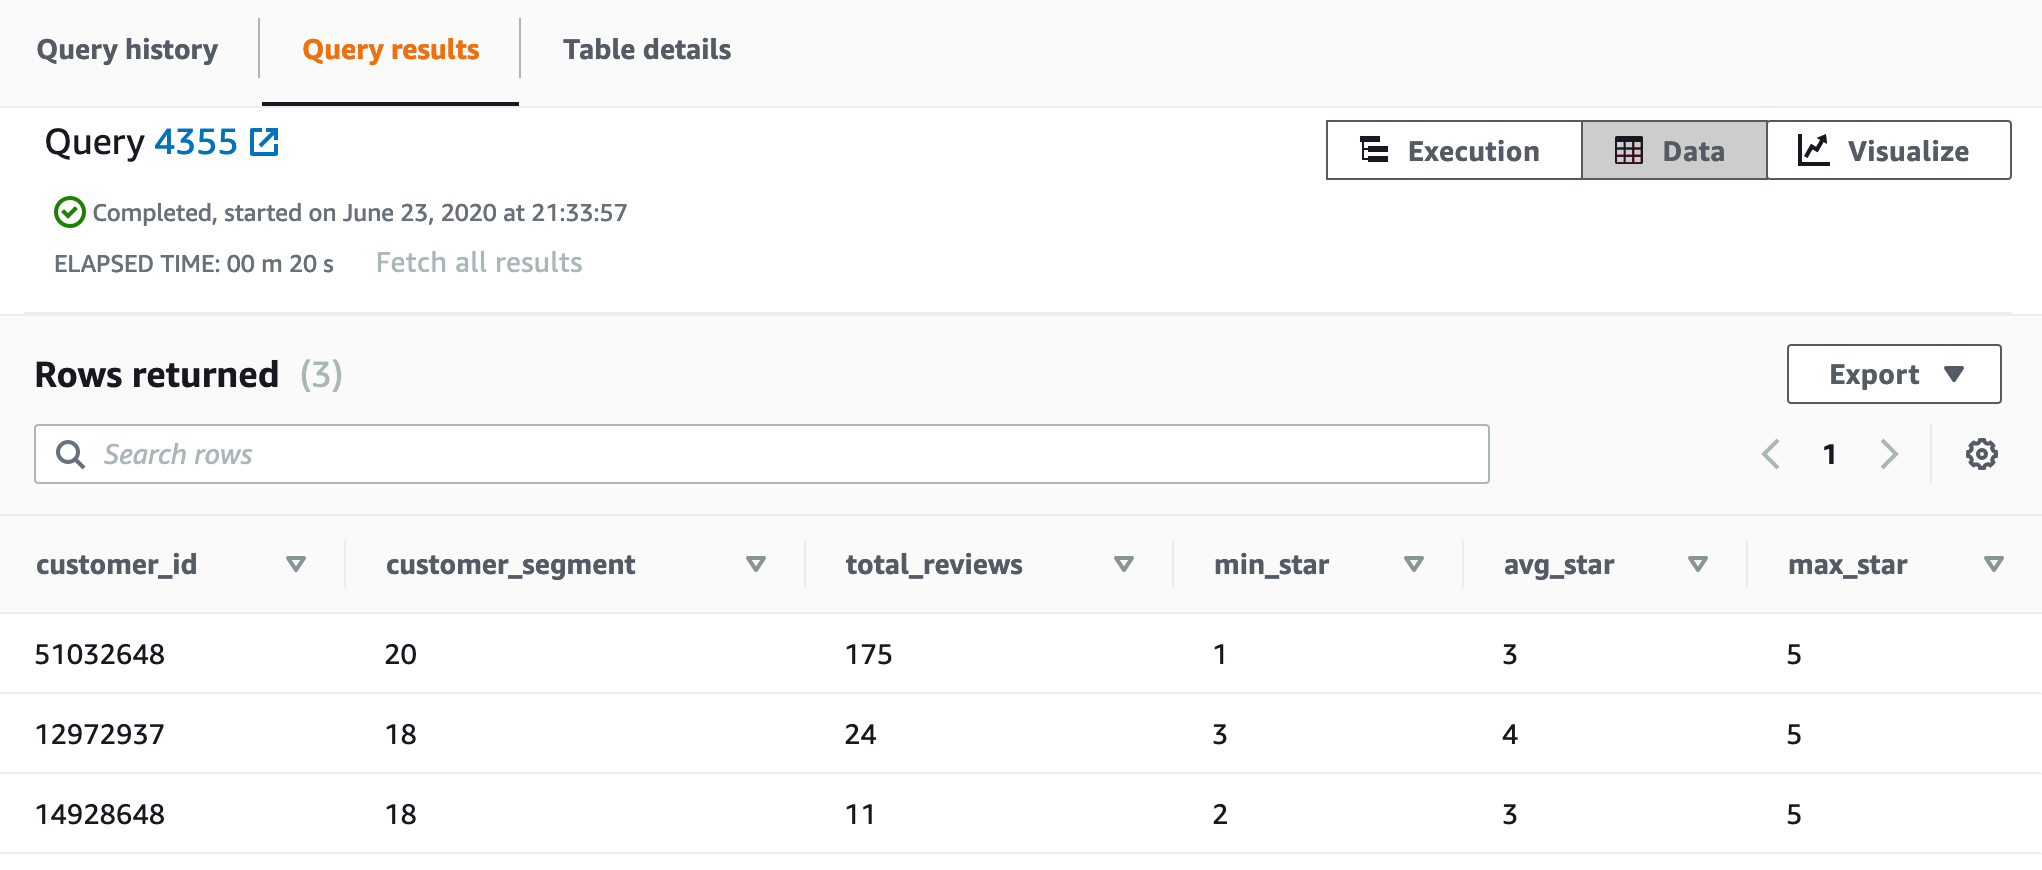
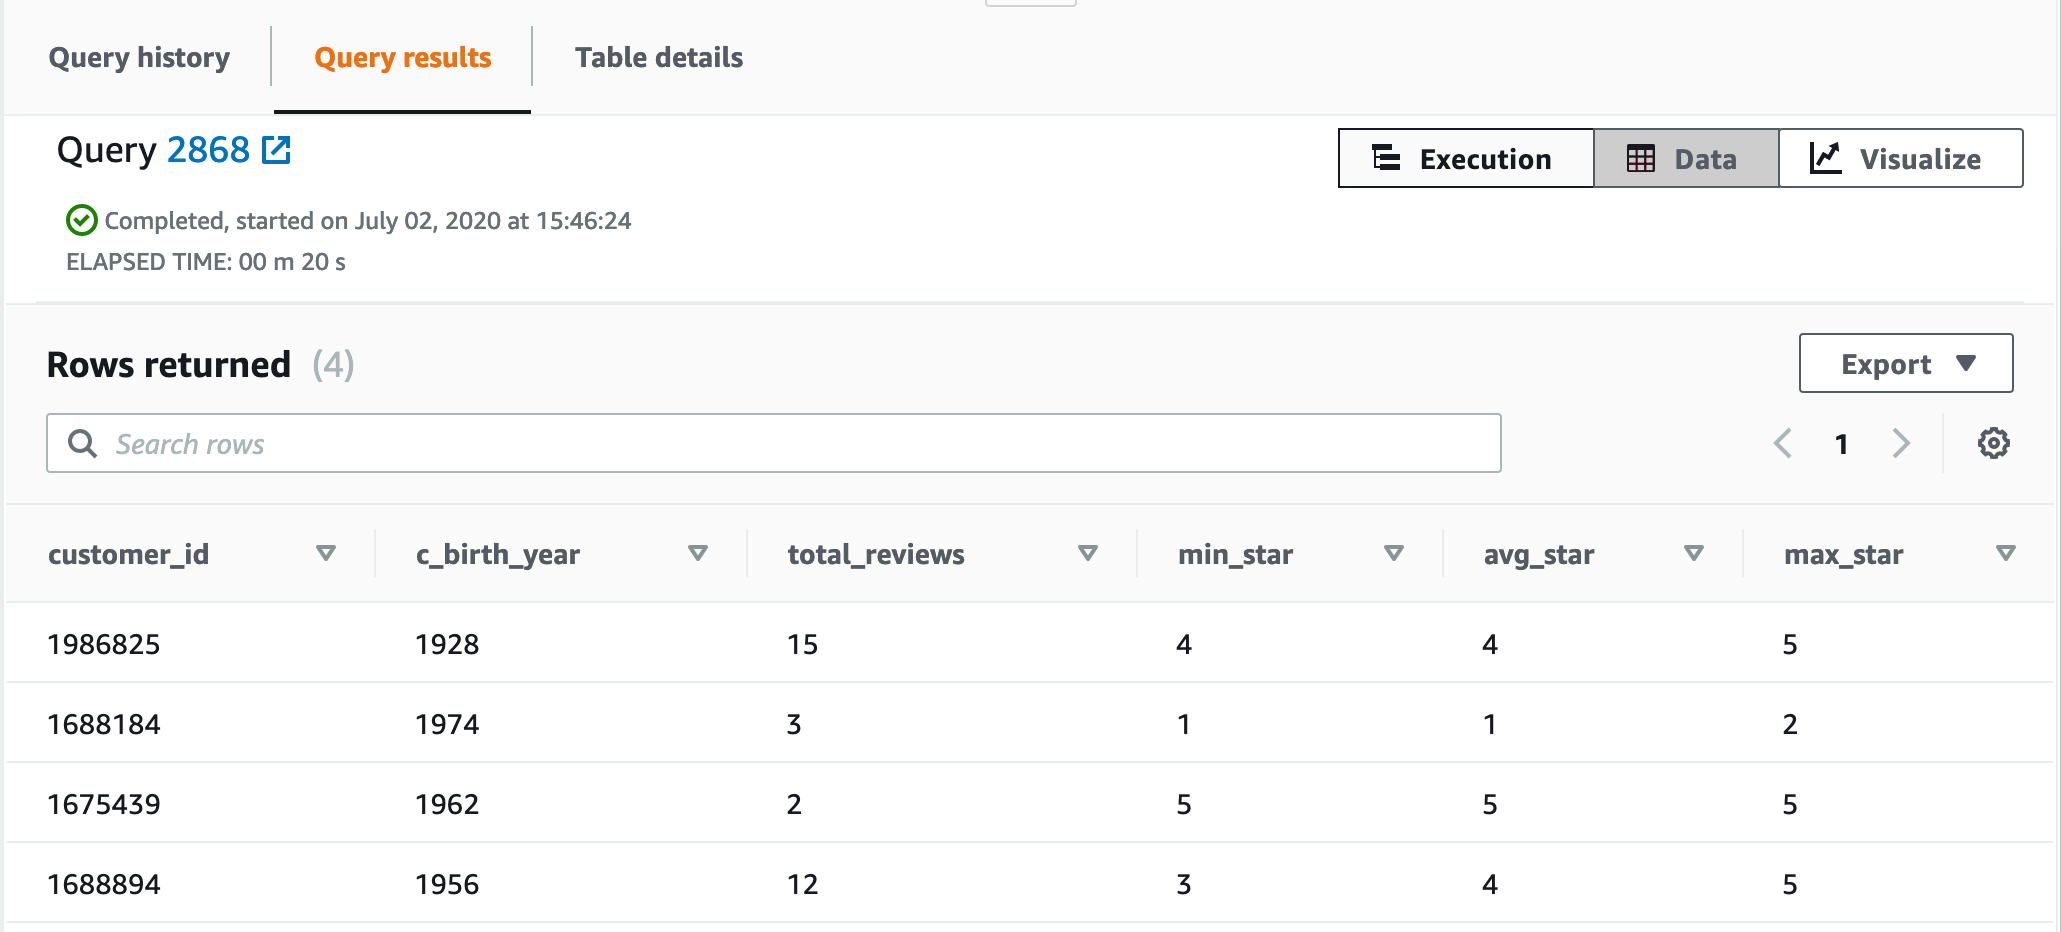
using tpc-ds 100gb customer table

diff --git a/AWS learning material/data lake/08_data_warehousing.md b/AWS learning material/data lake/08_data_warehousing.md
@@ -51,25 +51,41 @@ First we create an external schema for the database in data lake, and the tables
     ```
 3. Verify that we can see the `spectrum` schema and `parquet` table ![Redshift schema](images/redshift-schema.png)
 
-# Populate a sample dimension table in Redshift
+# Populate a sample dimension table (2M rows) in Redshift
 
 ```sql
-CREATE TABLE public.customers
+CREATE TABLE customer
 (
-    customer_id  char(8),
-    customer_segment  char(2)
-);
+  c_customer_sk int4 not null ,                 
+  c_customer_id char(16) not null ,             
+  c_current_cdemo_sk int4 ,   
+  c_current_hdemo_sk int4 ,   
+  c_current_addr_sk int4 ,    
+  c_first_shipto_date_sk int4 ,                 
+  c_first_sales_date_sk int4 ,
+  c_salutation char(10) ,     
+  c_first_name char(20) ,     
+  c_last_name char(30) ,      
+  c_preferred_cust_flag char(1) ,               
+  c_birth_day int4 ,          
+  c_birth_month int4 ,        
+  c_birth_year int4 ,         
+  c_birth_country varchar(20) ,                 
+  c_login char(13) ,          
+  c_email_address char(50) ,  
+  c_last_review_date_sk int4 ,
+  primary key (c_customer_sk)
+) distkey(c_customer_sk);
 ```
 
 ```sql
-INSERT INTO public.customers
-VALUES (14928648, 18),
-    (12972937, 18),
-    (51032648, 20);
+COPY customer FROM 's3://redshift-downloads/TPC-DS/100GB/customer/'
+iam_role 'arn:aws:iam::<account_ID>:role/spectrum'
+gzip delimiter '|' EMPTYASNULL region 'us-east-1' ;
 ```
 
 ```sql
-ANALYZE public.customers;
+ANALYZE customer;
 ```
 
 # Join the event data with customer dimension
@@ -78,24 +94,24 @@ Notice how we can do a join between tables in data lake and within Redshift in a
 
 ```sql
 SELECT
-  a.customer_id,
-  customer_segment,
+  customer_id,
+  c_birth_year,
   COUNT(*) total_reviews,
   MIN(star_rating) min_star,
   AVG(star_rating) avg_star,
   MAX(star_rating) max_star
 FROM spectrum.parquet a
-  LEFT JOIN public.customers b
-  ON a.customer_id = b.customer_id
-WHERE a.customer_id IN (14928648, 12972937, 51032648)
+  INNER JOIN customer b
+  ON customer_id = c_customer_sk
+WHERE customer_id IN (1688184, 1675439, 1986825, 1688894)
 GROUP BY
-  a.customer_id,
-  b.customer_segment
+  customer_id,
+  c_birth_year
 ```
 
 ![Redshift query result](images/redshift-queryresult.png)
 
-Notice in the explain plan how most of the works have been pushed down to the S3 layer
+Click **Execution** and notice how most of the works have been pushed down to the S3 layer
 
 ![Redshift explain plan](images/redshift-explain.png)
 
